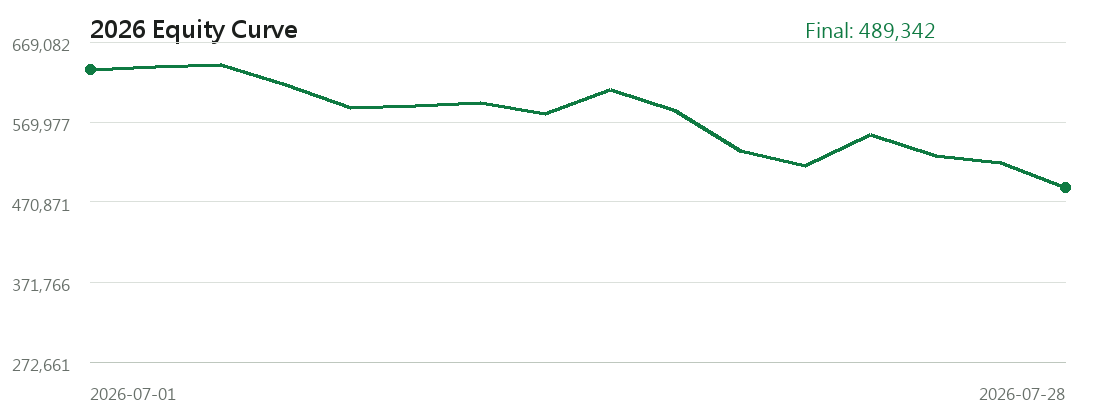
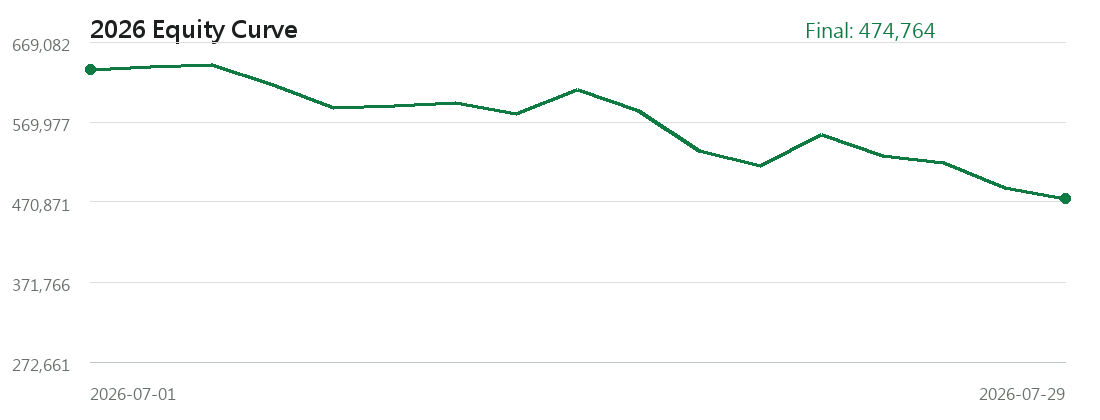
Update dashboard data

diff --git a/data.js b/data.js
@@ -1,5 +1,5 @@
 window.PUBLIC_FOLLOW_DATA = {
-  "generated_at": "2026-07-28T18:35:43.980211+08:00",
+  "generated_at": "2026-07-29T18:34:42.569726+08:00",
   "public_note": "Static follow dashboard only. Backend code, database, cache, and parameter search files are local-only.",
   "assumptions": {
     "initial_capital": 300000.0,
@@ -8,26 +8,26 @@ window.PUBLIC_FOLLOW_DATA = {
     "position_sizing": "Capital is split across up to 5 positions with integer-share sizing."
   },
   "data_status": {
-    "signal_date": "2026-07-28",
-    "latest_chip_date": "2026-07-28",
-    "latest_price_date": "2026-07-28",
+    "signal_date": "2026-07-29",
+    "latest_chip_date": "2026-07-29",
+    "latest_price_date": "2026-07-29",
     "candidate_count": 1,
     "warning": null
   },
   "metrics": {
     "initial_capital": 300000.0,
-    "final_value": 489341.5551239014,
-    "cash": -18838.444876098598,
-    "total_return_pct": 63.11385170796713,
-    "annualized_return_pct": 152.2672778689403,
+    "final_value": 474764.45280609134,
+    "cash": -14221.547193908656,
+    "total_return_pct": 58.25481760203044,
+    "annualized_return_pct": 137.18038971075987,
     "start_date": "2026-01-16",
-    "end_date": "2026-07-28",
-    "closed_trade_count": 20,
-    "entry_count": 21,
+    "end_date": "2026-07-29",
+    "closed_trade_count": 21,
+    "entry_count": 22,
     "open_position_count": 5,
-    "closed_trade_win_rate_pct": 35.0,
-    "average_closed_trade_return_pct": -2.6623828056053322,
-    "max_drawdown_pct": -23.74799586753299,
+    "closed_trade_win_rate_pct": 33.33333333333333,
+    "average_closed_trade_return_pct": -2.8095752747448044,
+    "max_drawdown_pct": -26.019483450261593,
     "performance_source": "actual_follow_account"
   },
   "equity_curve": [
@@ -126,6 +126,12 @@ window.PUBLIC_FOLLOW_DATA = {
       "equity": 489341.5551239014,
       "cash": -18838.444876098598,
       "position_count": 5
+    },
+    {
+      "date": "2026-07-29",
+      "equity": 474764.45280609134,
+      "cash": -14221.547193908656,
+      "position_count": 5
     }
   ],
   "holdings": [
@@ -135,13 +141,12 @@ window.PUBLIC_FOLLOW_DATA = {
       "quantity": 230,
       "entry_date": "2026-06-16",
       "entry_price": 596.0,
-      "current_price_date": "2026-07-28",
-      "current_price": 427.5,
-      "market_value": 98325.0,
-      "unrealized_return_pct": -28.271812080536918,
-      "holding_days": 42,
+      "current_price_date": "2026-07-29",
+      "current_price": 404.5,
+      "market_value": 93035.0,
+      "unrealized_return_pct": -32.130872483221474,
+      "holding_days": 43,
       "concept_tag_names": [
-        "投資控股",
         "晶圓製程設備零組件",
         "證券券商",
         "NB/PC代工",
@@ -149,7 +154,9 @@ window.PUBLIC_FOLLOW_DATA = {
         "工具機/自動化設備",
         "工具機零組件",
         "工程營造",
+        "投資控股",
         "檢測設備/服務",
+        "無塵室/廠務工程",
         "遊戲/數位內容",
         "PCB/銅箔進階材料",
         "基礎產業:電子零組件業"
@@ -161,11 +168,11 @@ window.PUBLIC_FOLLOW_DATA = {
       "quantity": 510,
       "entry_date": "2026-07-23",
       "entry_price": 224.0,
-      "current_price_date": "2026-07-28",
-      "current_price": 213.5,
-      "market_value": 108885.0,
-      "unrealized_return_pct": -4.6875,
-      "holding_days": 5,
+      "current_price_date": "2026-07-29",
+      "current_price": 209.5,
+      "market_value": 106845.0,
+      "unrealized_return_pct": -6.47321428571429,
+      "holding_days": 6,
       "concept_tag_names": [
         "支付/POS終端",
         "證券券商",
@@ -184,11 +191,11 @@ window.PUBLIC_FOLLOW_DATA = {
       "quantity": 464,
       "entry_date": "2026-07-27",
       "entry_price": 229.0,
-      "current_price_date": "2026-07-28",
-      "current_price": 217.0,
-      "market_value": 100688.0,
-      "unrealized_return_pct": -5.2401746724890845,
-      "holding_days": 1,
+      "current_price_date": "2026-07-29",
+      "current_price": 212.5,
+      "market_value": 98600.0,
+      "unrealized_return_pct": -7.20524017467249,
+      "holding_days": 2,
       "concept_tag_names": [
         "證券券商",
         "工具機/自動化設備",
@@ -201,39 +208,16 @@ window.PUBLIC_FOLLOW_DATA = {
       ]
     },
     {
-      "stock_id": "3081",
-      "company_name": "聯亞",
-      "quantity": 60,
-      "entry_date": "2026-07-27",
-      "entry_price": 1825.0,
-      "current_price_date": "2026-07-28",
-      "current_price": 1710.0,
-      "market_value": 102600.0,
-      "unrealized_return_pct": -6.301369863013695,
-      "holding_days": 1,
-      "concept_tag_names": [
-        "光通訊模組",
-        "矽光子/CPO",
-        "證券券商",
-        "光纖/光纜",
-        "光纖傳輸/光通訊",
-        "投資控股",
-        "矽光子/光通訊",
-        "網安/網路設備",
-        "遊戲/數位內容"
-      ]
-    },
-    {
       "stock_id": "4966",
       "company_name": "譜瑞-KY",
       "quantity": 169,
       "entry_date": "2026-07-28",
       "entry_price": 601.0,
-      "current_price_date": "2026-07-28",
-      "current_price": 578.0,
-      "market_value": 97682.0,
-      "unrealized_return_pct": -3.8269550748752046,
-      "holding_days": 0,
+      "current_price_date": "2026-07-29",
+      "current_price": 561.0,
+      "market_value": 94809.0,
+      "unrealized_return_pct": -6.655574043261236,
+      "holding_days": 1,
       "concept_tag_names": [
         "證券券商",
         "RF前端/功率放大器",
@@ -244,38 +228,35 @@ window.PUBLIC_FOLLOW_DATA = {
         "半導體IP/設計服務",
         "基礎產業:半導體業"
       ]
+    },
+    {
+      "stock_id": "4915",
+      "company_name": "致伸",
+      "quantity": 1519,
+      "entry_date": "2026-07-29",
+      "entry_price": 64.9000015258789,
+      "current_price_date": "2026-07-29",
+      "current_price": 63.0,
+      "market_value": 95697.0,
+      "unrealized_return_pct": -2.927583175974624,
+      "holding_days": 0,
+      "concept_tag_names": [
+        "連接器/線束",
+        "證券券商",
+        "工具機零組件",
+        "投資控股",
+        "晶圓製程設備零組件"
+      ]
     }
   ],
   "trade_plan": {
     "sell_orders": [
       {
-        "stock_id": "3081",
-        "company_name": "聯亞",
-        "quantity": 60,
-        "price": 1710.0,
-        "amount": 102600.0,
-        "concept_tag_names": [
-          "光通訊模組",
-          "矽光子/CPO",
-          "證券券商",
-          "光纖/光纜",
-          "光纖傳輸/光通訊",
-          "投資控股",
-          "矽光子/光通訊",
-          "網安/網路設備",
-          "遊戲/數位內容"
-        ]
-      }
-    ],
-    "buy_orders": [
-      {
         "stock_id": "4915",
         "company_name": "致伸",
         "quantity": 1519,
-        "price": 64.4000015258789,
-        "amount": 97823.60231781006,
-        "action": "SELL_WEAKEST_BUY_CANDIDATE",
-        "entry_date": null,
+        "price": 63.0,
+        "amount": 95697.0,
         "concept_tag_names": [
           "連接器/線束",
           "證券券商",
@@ -285,52 +266,79 @@ window.PUBLIC_FOLLOW_DATA = {
         ]
       }
     ],
-    "total_sell_amount": 102600.0,
-    "total_buy_amount": 97823.60231781006,
-    "starting_cash": -18838.444876098598,
-    "net_cash_change": 4776.397682189941,
-    "cash_after_plan": -14062.047193908656,
-    "needs_extra_cash": 14062.047193908656,
+    "buy_orders": [
+      {
+        "stock_id": "8210",
+        "company_name": "勤誠",
+        "quantity": 96,
+        "price": 981.0,
+        "amount": 94176.0,
+        "action": "SELL_WEAKEST_BUY_CANDIDATE",
+        "entry_date": null,
+        "concept_tag_names": [
+          "證券券商",
+          "AI伺服器",
+          "工具機/自動化設備",
+          "投資控股",
+          "晶圓製程設備零組件",
+          "檢測設備/服務",
+          "基礎產業:電腦及週邊設備業"
+        ]
+      }
+    ],
+    "total_sell_amount": 95697.0,
+    "total_buy_amount": 94176.0,
+    "starting_cash": -14221.547193908656,
+    "net_cash_change": 1521.0,
+    "cash_after_plan": -12700.547193908656,
+    "needs_extra_cash": 12700.547193908656,
     "remaining_cash": 0.0
   },
   "today_candidates": [
     {
       "rank": 1,
-      "signal_date": "2026-07-28",
-      "stock_id": "4915",
-      "company_name": "致伸",
+      "signal_date": "2026-07-29",
+      "stock_id": "8210",
+      "company_name": "勤誠",
       "action": "SELL_WEAKEST_BUY_CANDIDATE",
-      "reference_price": 64.4000015258789,
-      "target_amount": 97868.31102478028,
-      "suggested_quantity": 1519,
-      "buy_amount": 97823.60231781006,
-      "sell_stock_id": "3081",
-      "sell_company_name": "聯亞",
-      "sell_quantity": 60,
-      "sell_current_price": 1710.0,
-      "sell_market_value": 102600.0,
+      "reference_price": 981.0,
+      "target_amount": 94952.89056121827,
+      "suggested_quantity": 96,
+      "buy_amount": 94176.0,
+      "sell_stock_id": "4915",
+      "sell_company_name": "致伸",
+      "sell_quantity": 1519,
+      "sell_current_price": 63.0,
+      "sell_market_value": 95697.0,
       "concept_tag_names": [
+        "證券券商",
+        "AI伺服器",
+        "工具機/自動化設備",
+        "投資控股",
+        "晶圓製程設備零組件",
+        "檢測設備/服務",
+        "基礎產業:電腦及週邊設備業"
+      ],
+      "sell_concept_tag_names": [
         "連接器/線束",
         "證券券商",
         "工具機零組件",
         "投資控股",
         "晶圓製程設備零組件"
       ],
-      "sell_concept_tag_names": [
-        "光通訊模組",
-        "矽光子/CPO",
-        "證券券商",
-        "光纖/光纜",
-        "光纖傳輸/光通訊",
-        "投資控股",
-        "矽光子/光通訊",
-        "網安/網路設備",
-        "遊戲/數位內容"
-      ],
       "action_text": "換股買進"
     }
   ],
   "recent_entries": [
+    {
+      "stock_id": "4915",
+      "company_name": "致伸",
+      "entry_date": "2026-07-29",
+      "entry_price": 64.9000015258789,
+      "quantity": 1519,
+      "cost": 98583.10231781006,
+      "concept_tag_names": null
+    },
     {
       "stock_id": "4966",
       "company_name": "譜瑞-KY",
@@ -429,18 +437,22 @@ window.PUBLIC_FOLLOW_DATA = {
       "quantity": 113,
       "cost": 118650.0,
       "concept_tag_names": null
-    },
-    {
-      "stock_id": "4764",
-      "company_name": "雙鍵",
-      "entry_date": "2026-07-09",
-      "entry_price": 320.0,
-      "quantity": 373,
-      "cost": 119360.0,
-      "concept_tag_names": null
     }
   ],
   "recent_closed_trades": [
+    {
+      "stock_id": "3081",
+      "company_name": "聯亞",
+      "entry_date": "2026-07-27",
+      "entry_price": 1825.0,
+      "quantity": 60,
+      "exit_date": "2026-07-29",
+      "exit_price": 1720.0,
+      "exit_reason": "follow_signal_replace",
+      "return_pct": -5.753424657534245,
+      "holding_days": 2,
+      "concept_tag_names": null
+    },
     {
       "stock_id": "6442",
       "company_name": "光聖",
@@ -582,19 +594,6 @@ window.PUBLIC_FOLLOW_DATA = {
       "exit_reason": "follow_signal_replace",
       "return_pct": -7.831325301204817,
       "holding_days": 7,
-      "concept_tag_names": null
-    },
-    {
-      "stock_id": "6669",
-      "company_name": "緯穎",
-      "entry_date": "2026-07-01",
-      "entry_price": 4740.0,
-      "quantity": 26,
-      "exit_date": "2026-07-09",
-      "exit_price": 5020.0,
-      "exit_reason": "follow_signal_replace",
-      "return_pct": 5.907172995780585,
-      "holding_days": 8,
       "concept_tag_names": null
     }
   ]
